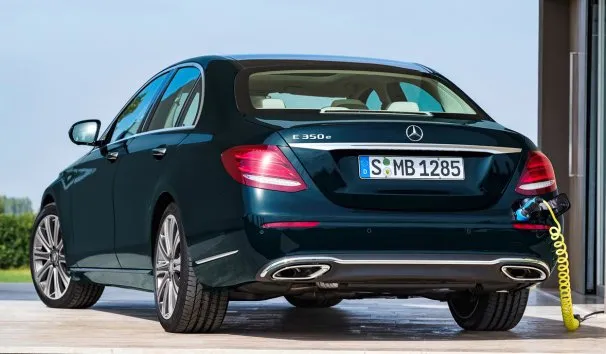
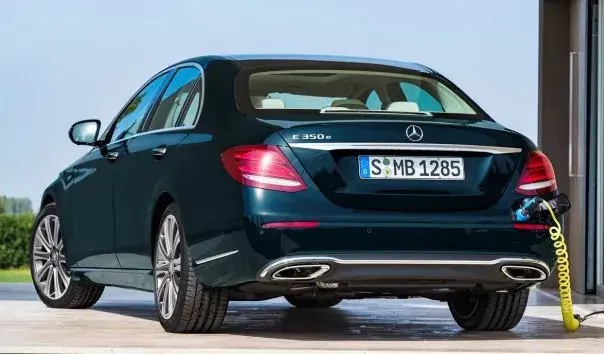
246

diff --git a/pic/mb_img_e.html b/pic/mb_img_e.html
@@ -839,7 +839,7 @@
 					<section>
 						<h4 class="displayNone">W213</h4>
 						<a href="full/e/w213_f.jpg"><img loading="lazy" src="style/e/w213_f.webp" alt="Mercedes,W213,E-klasse,Frontansicht" width="601" height="354"></a>
-						<a href="full/e/w213_r.jpg"><img loading="lazy" src="style/e/w213_r.webp" alt="Mercedes,W213,E-klasse,Rückansicht" width="606" height="354"></a><br>
+						<a href="full/e/w213_r.jpg"><img loading="lazy" src="style/e/w213_r.webp" alt="Mercedes,W213,E-klasse,Rückansicht" width="604" height="354"></a><br>
 						<a href="full/e/w213_d.jpg"><img loading="lazy" src="style/e/w213_d.webp" alt="Mercedes,W213,E-klasse,Instrumententafel" width="1210" height="806"></a><br>
 						<a href="full/e/w213_ch.jpg"><img loading="lazy" src="style/e/w213_ch.webp" alt="Mercedes,W213,E-klasse,Chassis" width="1210" height="680"></a>
 						<h5>Avantgarde</h5>
@@ -849,10 +849,10 @@
 						<a href="full/e/w213_d_ava.jpg"><img loading="lazy" src="style/e/w213_d_ava.webp" alt="Mercedes,W213,E-klasse,Avantgarde,Instrumententafel" width="481" height="321"></a><br>
 						<h5 class="i" id="w213f">Modellpflege</h5>
 						<p class="i m1">03/2020</p><br>
-						<a href="full/e/w213_f2.webp"><img loading="lazy" src="style/e/w213_f2.webp" alt="Mercedes,w213,E-klasse,Frontansicht" width="604" height="340"></a>
-						<a href="full/e/w213_r2.jpg"><img loading="lazy" src="style/e/w213_r2.webp" alt="Mercedes,w213,E-klasse,Rückansicht" width="604" height="340"></a><br>
-						<a href="full/e/w213_d2.jpg"><img loading="lazy" src="style/e/w213_d2.webp" alt="Mercedes,W213,E-klasse,Instrumententafel" width="604" height="340"></a>
-						<a href="full/e/w213_i2.jpg"><img loading="lazy" src="style/e/w213_i2.webp" alt="Mercedes,W213,E-klasse,Innenansicht" width="604" height="340"></a>
+						<a href="full/e/w213_f2.webp"><img loading="lazy" src="style/e/w213_f2.webp" alt="Mercedes,w213,E-klasse,Frontansicht" width="602" height="340"></a>
+						<a href="full/e/w213_r2.jpg"><img loading="lazy" src="style/e/w213_r2.webp" alt="Mercedes,w213,E-klasse,Rückansicht" width="602" height="340"></a><br>
+						<a href="full/e/w213_d2.jpg"><img loading="lazy" src="style/e/w213_d2.webp" alt="Mercedes,W213,E-klasse,Instrumententafel" width="602" height="340"></a>
+						<a href="full/e/w213_i2.jpg"><img loading="lazy" src="style/e/w213_i2.webp" alt="Mercedes,W213,E-klasse,Innenansicht" width="602" height="340"></a>
 						<h5>AMG line</h5>
 						<a href="full/e/w213_f2_amgline.jpg"><img loading="lazy" src="style/e/w213_f2_amgline.webp" alt="Mercedes,w213,E-klasse,amgline,Frontansicht" width="604" height="340"></a>
 						<a href="full/e/w213_r2_amgline.jpg"><img loading="lazy" src="style/e/w213_r2_amgline.webp" alt="Mercedes,w213,E-klasse,amgline,Rückansicht" width="604" height="340"></a><br>

diff --git a/pic/ja_mb_img_e.html b/pic/ja_mb_img_e.html
@@ -839,7 +839,7 @@
 					<section>
 						<h4 class="displayNone">W213</h4>
 						<a href="full/e/w213_f.jpg"><img loading="lazy" src="style/e/w213_f.webp" alt="メルセデス,W213,Eクラス,フロント" width="601" height="354"></a>
-						<a href="full/e/w213_r.jpg"><img loading="lazy" src="style/e/w213_r.webp" alt="メルセデス,W213,Eクラス,リヤ" width="606" height="354"></a><br>
+						<a href="full/e/w213_r.jpg"><img loading="lazy" src="style/e/w213_r.webp" alt="メルセデス,W213,Eクラス,リヤ" width="604" height="354"></a><br>
 						<a href="full/e/w213_d.jpg"><img loading="lazy" src="style/e/w213_d.webp" alt="メルセデス,W213,Eクラス,ダッシュボード" width="1210" height="806"></a><br>
 						<a href="full/e/w213_ch.jpg"><img loading="lazy" src="style/e/w213_ch.webp" alt="メルセデス,W213,Eクラス,シャーシ" width="1210" height="680"></a>
 						<h5>アヴァンギャルド</h5>

diff --git a/pic/en_mb_img_e.html b/pic/en_mb_img_e.html
@@ -839,7 +839,7 @@
 					<section>
 						<h4 class="displayNone">W213</h4>
 						<a href="full/e/w213_f.jpg"><img loading="lazy" src="style/e/w213_f.webp" alt="Mercedes,W213,E-class,Front view" width="601" height="354"></a>
-						<a href="full/e/w213_r.jpg"><img loading="lazy" src="style/e/w213_r.webp" alt="Mercedes,W213,E-class,Rear view" width="606" height="354"></a><br>
+						<a href="full/e/w213_r.jpg"><img loading="lazy" src="style/e/w213_r.webp" alt="Mercedes,W213,E-class,Rear view" width="604" height="354"></a><br>
 						<a href="full/e/w213_d.jpg"><img loading="lazy" src="style/e/w213_d.webp" alt="Mercedes,W213,E-class,Dashboard" width="1210" height="806"></a><br>
 						<a href="full/e/w213_ch.jpg"><img loading="lazy" src="style/e/w213_ch.webp" alt="Mercedes,W213,E-class,chassis" width="1210" height="680"></a>
 						<h5>Avantgarde</h5>
